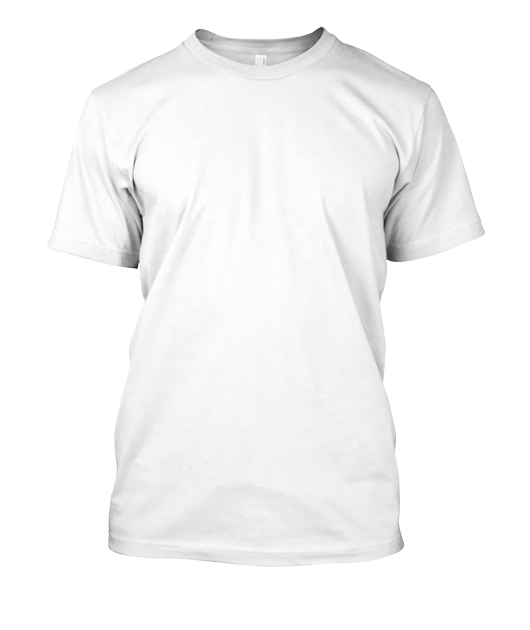
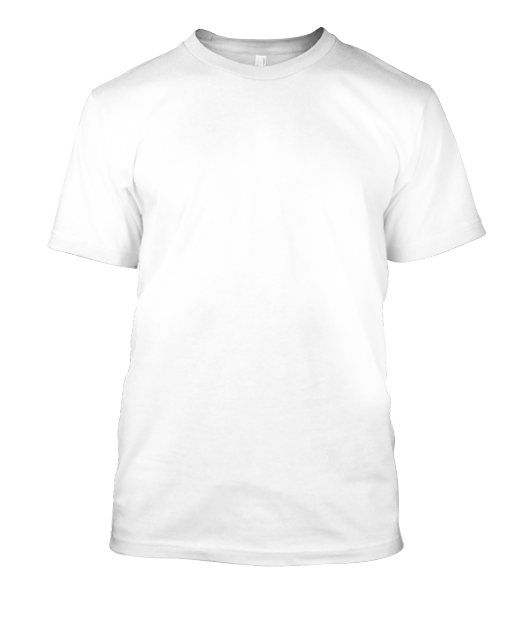
NewPattern.jsx 80% completed ahihi happy now

diff --git a/client/components/pattern/NewPattern.jsx b/client/components/pattern/NewPattern.jsx
@@ -34,9 +34,9 @@ class NewShirt extends React.Component {
         this.listTypeShirt = this.listTypeShirt.bind(this);
         this.shirtItem = this.shirtItem.bind(this);
 
-        this.customBar = this.customBar.bind(this);
+         this.customBar = this.customBar.bind(this);
          this.changeShirtType = this.changeShirtType.bind(this);
-        this.callAddPatternToShirt = this.callAddPatternToShirt.bind(this);
+         this.callAddPatternToShirt = this.callAddPatternToShirt.bind(this);
          this.handleChangePosition = this.handleChangePosition.bind(this);
 
 
@@ -122,11 +122,11 @@ class NewShirt extends React.Component {
 
         let drawingAreae = {
           position: 'absolute',
-          top: '100px',
-          left: '160px',
+          top: 0,
+          left: 0,
           zIndex: 100,
-          width: '200px',
-          height: '400px'
+          width: '100%',
+          height: '100%'
         }
         let webKitUser = {
           WebkitUserSelect : 'none'
@@ -136,15 +136,15 @@ class NewShirt extends React.Component {
             position: 'relative'
         }
         let shirtFacing = {
-             width: '100%'
+            width: '100%',
+            height: '100%'
         }
 
         return(
               <div id="shirtDiv" className="page" style={shirtDiv}>
                 <img id="tshirtFacing" src="static/TeeShirt1.png" style={shirtFacing}></img>
                 <div id="drawingArea" style={drawingAreae}>
-                  <canvas id="shirtCanvas" width="200px" height="400px" className="hover" style={webKitUser}>
-
+                  <canvas id="shirtCanvas"className="hover" style={webKitUser}>
                   </canvas>
                 </div>
               </div>
@@ -168,8 +168,6 @@ class NewShirt extends React.Component {
               <div className="pull-right"  id="imageeditor">
                 <RaisedButton  id="remove-selected" label="delete" primary={true}/>
 
-
-
               </div>
           )
       }
@@ -180,26 +178,30 @@ class NewShirt extends React.Component {
       });
     }
     shirtItem(shirt, index){
-        let shirtIcon = {
-          height:  80,
-          width: 80
+        let shirtItem = {
+          height:  '100%',
+          width: '100%'
         }
+        let shirtFrame  = {
+          marginTop : '20%'
+        }
+
         return (
-             <div key= {shirt._id}
-             onClick={() => this.changeShirtType(index)} style={shirtIcon}>
-               <img className="img-responsive shirtTypes" src={shirt.url}/>
+             <div key= {shirt._id} className="col-sm-5" style = {shirtFrame}
+             onClick={() => this.changeShirtType(index)} >
+               <img className="shirtTypes" style={shirtItem} src={shirt.url}/>
               {shirt.detail}
              </div>
           )
     }
     listTypeShirt(){
+        let listShirt = {
+          margin: 0,
+          padding: 0
+        }
         return (
-          <div className="form-group form-inline">
-
-
-               <div className="row">
-                      {this.props.shirtData.listShirt.map(this.shirtItem)}
-               </div>
+          <div className="row"  style = {listShirt}>
+                  {this.props.shirtData.listShirt.map(this.shirtItem)}
           </div>
         )
     }
@@ -219,13 +221,20 @@ class NewShirt extends React.Component {
       }
         return (
           <div className="form well">
+
+            <div className="well">
                 {listColor.length > 0 ?
-                listColor.map(this.colorItem): 'no shirt in server'}
+                 listColor.map(this.colorItem): 'no shirt in server'}
+            </div>
 
                 {this.props.shirtData.listShirt?
                 this.listTypeShirt(): 'no shirt in server'}
 
-               <button className="btn btn-success">Create Pattern</button>
+
+
+              <RaisedButton  label="Create Pattern" primary={true} style={{marginTop: '5vh' }}/>
+
+
         </div>
         )
     }
@@ -247,14 +256,14 @@ class NewShirt extends React.Component {
                                   url={this.state.url}
                                   submit={this.handleSubmit}/>
                 </div>
-                <Paper className="col-sm-5" style={{height:'100vh'}}>
+                <Paper className="col-sm-5" style={{height:'80vh'}}>
 
-                           {this.editor()}
+                          {this.editor()}
                           {this.imageEditor()}
 
                 </Paper>
                 <div className="col-sm-3">
-                    <Paper style={{height:'100vh'}}>
+                    <Paper style={{height:'80vh'}}>
                          {this.customBar()}
                     </Paper>
                 </div>

diff --git a/client/js/tshirtEditor.js b/client/js/tshirtEditor.js
@@ -77,7 +77,7 @@ var applyCanvasAndShirt = function() {
 
 
 		$(".shirtTypes").click(function(e){
-			$("#shirtDiv").css('height','590');
+			// $("#shirtDiv").css('height','vh');
   			$("#tshirtFacing")[0].src = e.currentTarget.src;
 		});
 		  document.getElementById('remove-selected').onclick = function() {
@@ -95,31 +95,27 @@ var applyCanvasAndShirt = function() {
 		    }
 	  };
 
-
-
-
-
 	   $(".clearfix button,a").tooltip();
-	   line1 = new fabric.Line([0,0,200,0], {"stroke":"#000000", "strokeWidth":1,hasBorders:false,hasControls:false,hasRotatingPoint:false,selectable:false});
-	   line2 = new fabric.Line([199,0,200,399], {"stroke":"#000000", "strokeWidth":1,hasBorders:false,hasControls:false,hasRotatingPoint:false,selectable:false});
-	   line3 = new fabric.Line([0,0,0,400], {"stroke":"#000000", "strokeWidth":1,hasBorders:false,hasControls:false,hasRotatingPoint:false,selectable:false});
-	   line4 = new fabric.Line([0,400,200,399], {"stroke":"#000000", "strokeWidth":1,hasBorders:false,hasControls:false,hasRotatingPoint:false,selectable:false});
-		  $("#drawingArea").hover(
-			        function() {
-			        	 canvas.add(line1);
-				         canvas.add(line2);
-				         canvas.add(line3);
-				         canvas.add(line4);
-				        //  canvas.renderAll();
-			        },
-			        function() {
-			        	 canvas.remove(line1);
-				         canvas.remove(line2);
-				         canvas.remove(line3);
-				         canvas.remove(line4);
-				        //  canvas.renderAll();
-			        }
-			    );
+	  //  line1 = new fabric.Line([0,0,200,0], {"stroke":"#000000", "strokeWidth":1,hasBorders:false,hasControls:false,hasRotatingPoint:false,selectable:false});
+	  //  line2 = new fabric.Line([199,0,200,399], {"stroke":"#000000", "strokeWidth":1,hasBorders:false,hasControls:false,hasRotatingPoint:false,selectable:false});
+	  //  line3 = new fabric.Line([0,0,0,400], {"stroke":"#000000", "strokeWidth":1,hasBorders:false,hasControls:false,hasRotatingPoint:false,selectable:false});
+	  //  line4 = new fabric.Line([0,400,200,399], {"stroke":"#000000", "strokeWidth":1,hasBorders:false,hasControls:false,hasRotatingPoint:false,selectable:false});
+		  // $("#drawingArea").hover(
+			//         function() {
+			//         	//  canvas.add(line1);
+			// 	        //  canvas.add(line2);
+			// 	        //  canvas.add(line3);
+			// 	        //  canvas.add(line4);
+			// 	        //  canvas.renderAll();
+			//         },
+			//         function() {
+			//         	//  canvas.remove(line1);
+			// 	        //  canvas.remove(line2);
+			// 	        //  canvas.remove(line3);
+			// 	        //  canvas.remove(line4);
+			// 	        //  canvas.renderAll();
+			//         }
+			//     );
 
  	// 	canvas.on('object:over', function(e) {
 		// });

diff --git a/client/css/hovereffect.css b/client/css/hovereffect.css
@@ -1,3 +1,10 @@
+.shirtTypes:hover {
+    z-index:10;
+    -moz-transform: scale(2.2);
+    -webkit-transform: scale(2.2);
+    transform: scale(2.2);
+}
+
 .hovereffect {
   width: 100%;
   height: 100%;
